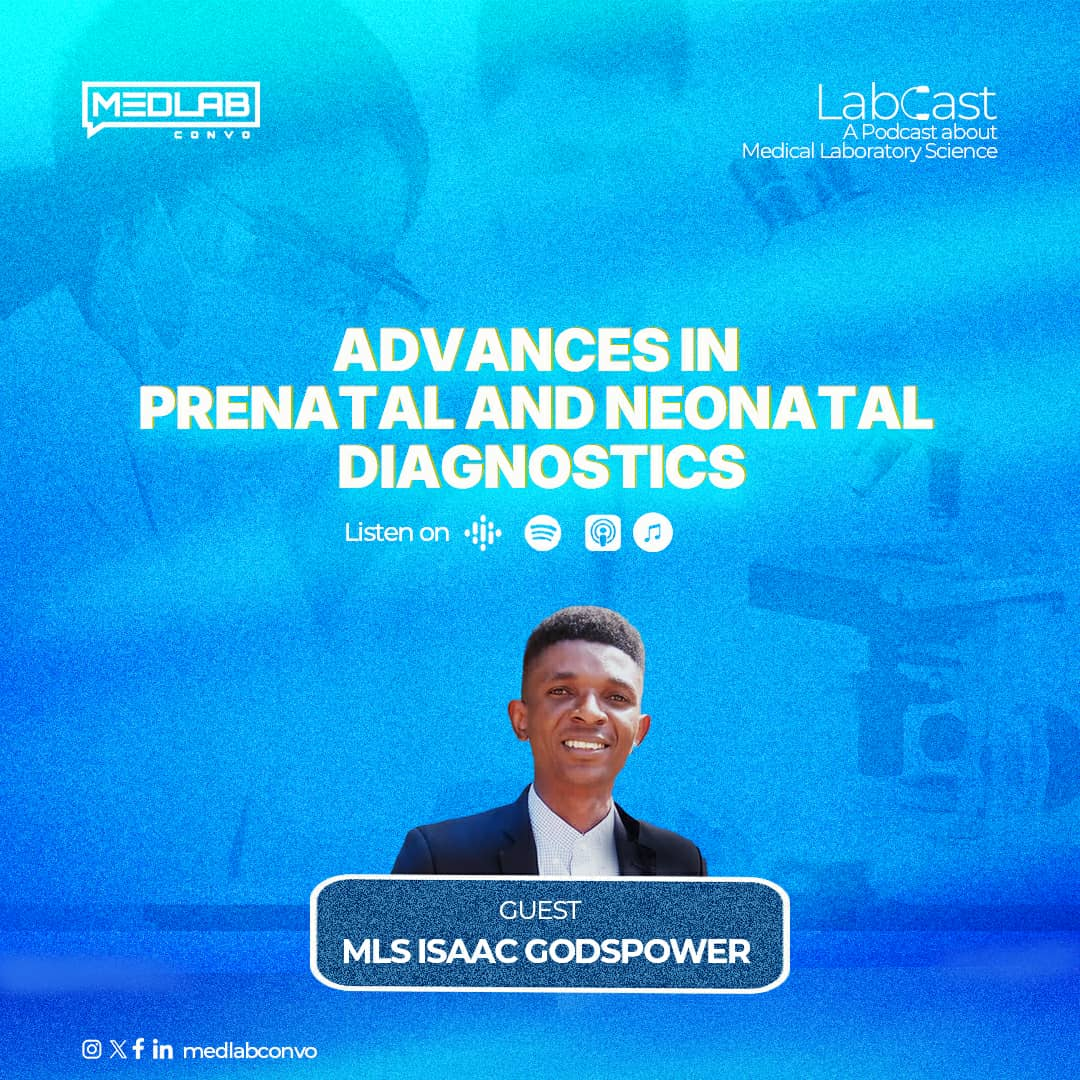
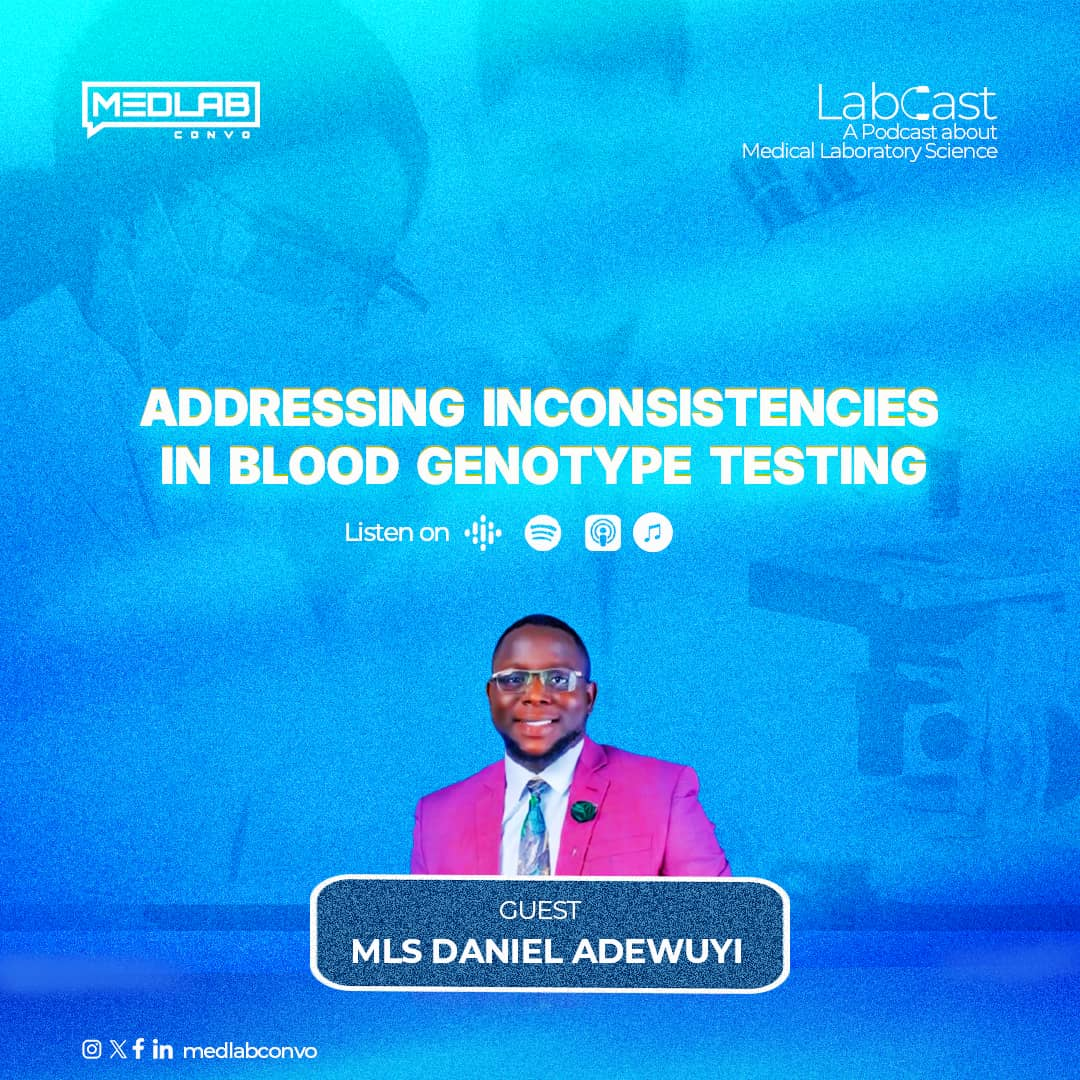
updated labcast

diff --git a/pages/lab-cast/index.vue b/pages/lab-cast/index.vue
@@ -97,21 +97,14 @@
         <div class="lg:flex space-y-6 items-center space-x-4 w-full p-6">
           <img src="@/assets/img/latest-labcast.jpg" alt="Podcast cover" class="w-72 h-60 rounded-lg object-cover" />
           <div class="flex flex-col w-full">
-            <div class="font-semibold text-2xl">Advances in Prenatal and Neonatal Diagnostics</div>
+            <div class="font-semibold text-2xl">Addressing Inconsistencies in Blood Genotype Testing</div>
             <div class="text-gray-500 mt-2">
-              What if you could meet your baby before they’re even born—not just through an ultrasound, but through the
-              lens of the laboratory? In this episode of LabCast, join our hosts and guest Medical Laboratory Scientist
-              Isaac Godspower as they dive into the latest advances in prenatal and neonatal diagnostics.
-              This conversation covers innovations like genetic screening and advanced imaging techniques, and how
-              they’re reshaping early care for both mothers and newborns.
-              You’ll discover how these technologies are helping detect conditions earlier, guide clinical decisions,
-              and ultimately improve outcomes for families. Whether you’re a healthcare professional or simply curious,
-              this episode is for you.🤗
+              In this episode of Labcast, we discussed with MLS Daniel Adewuyi to explore a critical issue in medical laboratory practice — inconsistencies in blood genotype testing. Drawing from his diverse experience, Daniel discusses how and why genotype testing errors happen, the real-life implications for patients, and what laboratory professionals can do to minimize mistakes. Whether it's a lack of standard procedures, inadequate training, or misinterpretation of results, this episode highlights the importance of accuracy and ethical responsibility in genotype testing. If you're a medical laboratory scientist, student, or healthcare professional, this conversation will challenge you to rethink your role in delivering trustworthy results.
             </div>
             <div class="mt-3">
               <p class="text-gray-400 text-sm mb-2">Available On:</p>
               <div class="flex flex-wrap gap-2">
-                <a href=" https://open.spotify.com/episode/0JcJMe91MLZEOA3qmq04ur?si=UsINzwx0RmG-IreZFAad6Q"
+                <a href=" https://open.spotify.com/episode/1btcW1Xe60zADkJtCeFK0f?si=Ix7VLqlQSPigVYfM1H_ZbQ%0A"
                   class="inline-flex items-center px-4 py-1.5 rounded-full bg-[#1DB954] text-sm hover:opacity-90">
                   <span class="mr-2">
                     <svg class="w-4 h-4" viewBox="0 0 24 24" fill="currentColor">
@@ -121,7 +114,7 @@
                   </span>
                   Spotify
                 </a>
-                <a href=" https://open.spotify.com/episode/0JcJMe91MLZEOA3qmq04ur?si=UsINzwx0RmG-IreZFAad6Q"
+                <a href=" https://open.spotify.com/episode/1btcW1Xe60zADkJtCeFK0f?si=Ix7VLqlQSPigVYfM1H_ZbQ%0A"
                   class="inline-flex items-center border-[0.5px] border-gray-20 px-4 py-1.5 rounded-full bg-white text-black text-sm hover:opacity-90">
                   <span class="mr-2">
                     <svg fill="none" class="w-6 h-6" viewBox="0 0 92 92" xmlns="http://www.w3.org/2000/svg"
@@ -334,21 +327,23 @@ import episode30 from "@/assets/img/lab-coast/lab30.png";
 import episode31 from "@/assets/img/lab-coast/lab31.png";
 
 const podcastList = ref([
-  {
+{
+    name: "Addressing Inconsistencies in Blood Genotype Testing",
+    description:
+      `In this episode of Labcast, we discussed with MLS Daniel Adewuyi to explore a critical issue in medical laboratory practice — inconsistencies in blood genotype testing. Drawing from his diverse experience, Daniel discusses how and why genotype testing errors happen, the real-life implications for patients, and what laboratory professionals can do to minimize mistakes. Whether it's a lack of standard procedures, inadequate training, or misinterpretation of results, this episode highlights the importance of accuracy and ethical responsibility in genotype testing. If you're a medical laboratory scientist, student, or healthcare professional, this conversation will challenge you to rethink your role in delivering trustworthy results.`,
+    image: "",
+    link: "https://open.spotify.com/episode/1btcW1Xe60zADkJtCeFK0f?si=Ix7VLqlQSPigVYfM1H_ZbQ%0A",
+    appleUrl: "https://open.spotify.com/episode/1btcW1Xe60zADkJtCeFK0f?si=Ix7VLqlQSPigVYfM1H_ZbQ%0A"
+  },
+   {
     name: "Redeeming the Time: Navigating the Pre-internship Phase",
     description:
       `You’ve been inducted, but the internship call isn’t coming - now what? In this episode of LabCast, Ubani
               C. Nmesoma and co-host Folaranmi Precious unpack the frustrating, uncertain, and all-too-common “wait
-              period” many medical laboratory science graduates in Nigeria face before securing internship placements.
-
-              They’re joined by Oluwamuyiwa Ogunkoya David and Gimbiya Precious, two MLS graduates who’ve completed
+              period” many medical laboratory science graduates in Nigeria face before securing internship placements. They’re joined by Oluwamuyiwa Ogunkoya David and Gimbiya Precious, two MLS graduates who’ve completed
               internships. The conversation focuses on the reasons behind the delays, how to make the most of the
-              waiting period, and what changes the system really needs.
-
-              Whether you're waiting, worrying, or wondering what’s next, this episode offers real talk, practical tips,
-              and the encouragement you need to keep going.
-
-              Tune in, share with a friend, and don’t forget to check out our previous episodes on internship
+              waiting period, and what changes the system really needs. Whether you're waiting, worrying, or wondering what’s next, this episode offers real talk, practical tips,
+              and the encouragement you need to keep going. Tune in, share with a friend, and don’t forget to check out our previous episodes on internship
               struggles.🤗`,
     image: "",
     link: "https://open.spotify.com/episode/5D6cMrufqwIkJMr16BDH28?si=62pzB1M4SzCjNKxTlH--nQ",

diff --git a/pages/index.vue b/pages/index.vue
@@ -122,7 +122,7 @@
             <div class="flex flex-wrap gap-2 flex justify-center items-center w-full">
        <div>
         <a
-            href=" https://open.spotify.com/episode/0JcJMe91MLZEOA3qmq04ur?si=UsINzwx0RmG-IreZFAad6Q"
+            href="https://open.spotify.com/episode/1btcW1Xe60zADkJtCeFK0f?si=Ix7VLqlQSPigVYfM1H_ZbQ%0A"
             class="inline-flex items-center px-4 py-1.5 rounded-full bg-[#1DB954] text-sm hover:opacity-90"
           >
             <span class="mr-2">
@@ -137,7 +137,7 @@
        </div>
       <div>
         <a
-                href=" https://open.spotify.com/episode/0JcJMe91MLZEOA3qmq04ur?si=UsINzwx0RmG-IreZFAad6Q"
+                href="https://open.spotify.com/episode/1btcW1Xe60zADkJtCeFK0f?si=Ix7VLqlQSPigVYfM1H_ZbQ%0A"
                 class="inline-flex items-center border-[0.5px] border-gray-20 px-4 py-1.5 rounded-full bg-white text-black text-sm hover:opacity-90"
               >
                 <span class="mr-2">
@@ -506,11 +506,9 @@ const activitiesGrid = ref([
 
 const labcastLatest = ref([
 {
-    title: 'Advances in Prenatal and Neonatal Diagnostics',
+    title: 'Addressing Inconsistencies in Blood Genotype Testing',
     image: labcast,
-    desc: ` What if you could meet your baby before they’re even born—not just through an ultrasound, but through the lens of the laboratory? In this episode of LabCast, join our hosts and guest Medical Laboratory Scientist Isaac Godspower as they dive into the latest advances in prenatal and neonatal diagnostics.
-This conversation covers innovations like genetic screening and advanced imaging techniques, and how they’re reshaping early care for both mothers and newborns.
-You’ll discover how these technologies are helping detect conditions earlier, guide clinical decisions, and ultimately improve outcomes for families. Whether you’re a healthcare professional or simply curious, this episode is for you.🤗`,
+    desc: `In this episode of Labcast, we discussed with MLS Daniel Adewuyi to explore a critical issue in medical laboratory practice — inconsistencies in blood genotype testing. Drawing from his diverse experience, Daniel discusses how and why genotype testing errors happen, the real-life implications for patients, and what laboratory professionals can do to minimize mistakes. Whether it's a lack of standard procedures, inadequate training, or misinterpretation of results, this episode highlights the importance of accuracy and ethical responsibility in genotype testing. If you're a medical laboratory scientist, student, or healthcare professional, this conversation will challenge you to rethink your role in delivering trustworthy results.`,
     previousEditionUrl: '#',
     status: 'latest',
     registerUrl: ''
